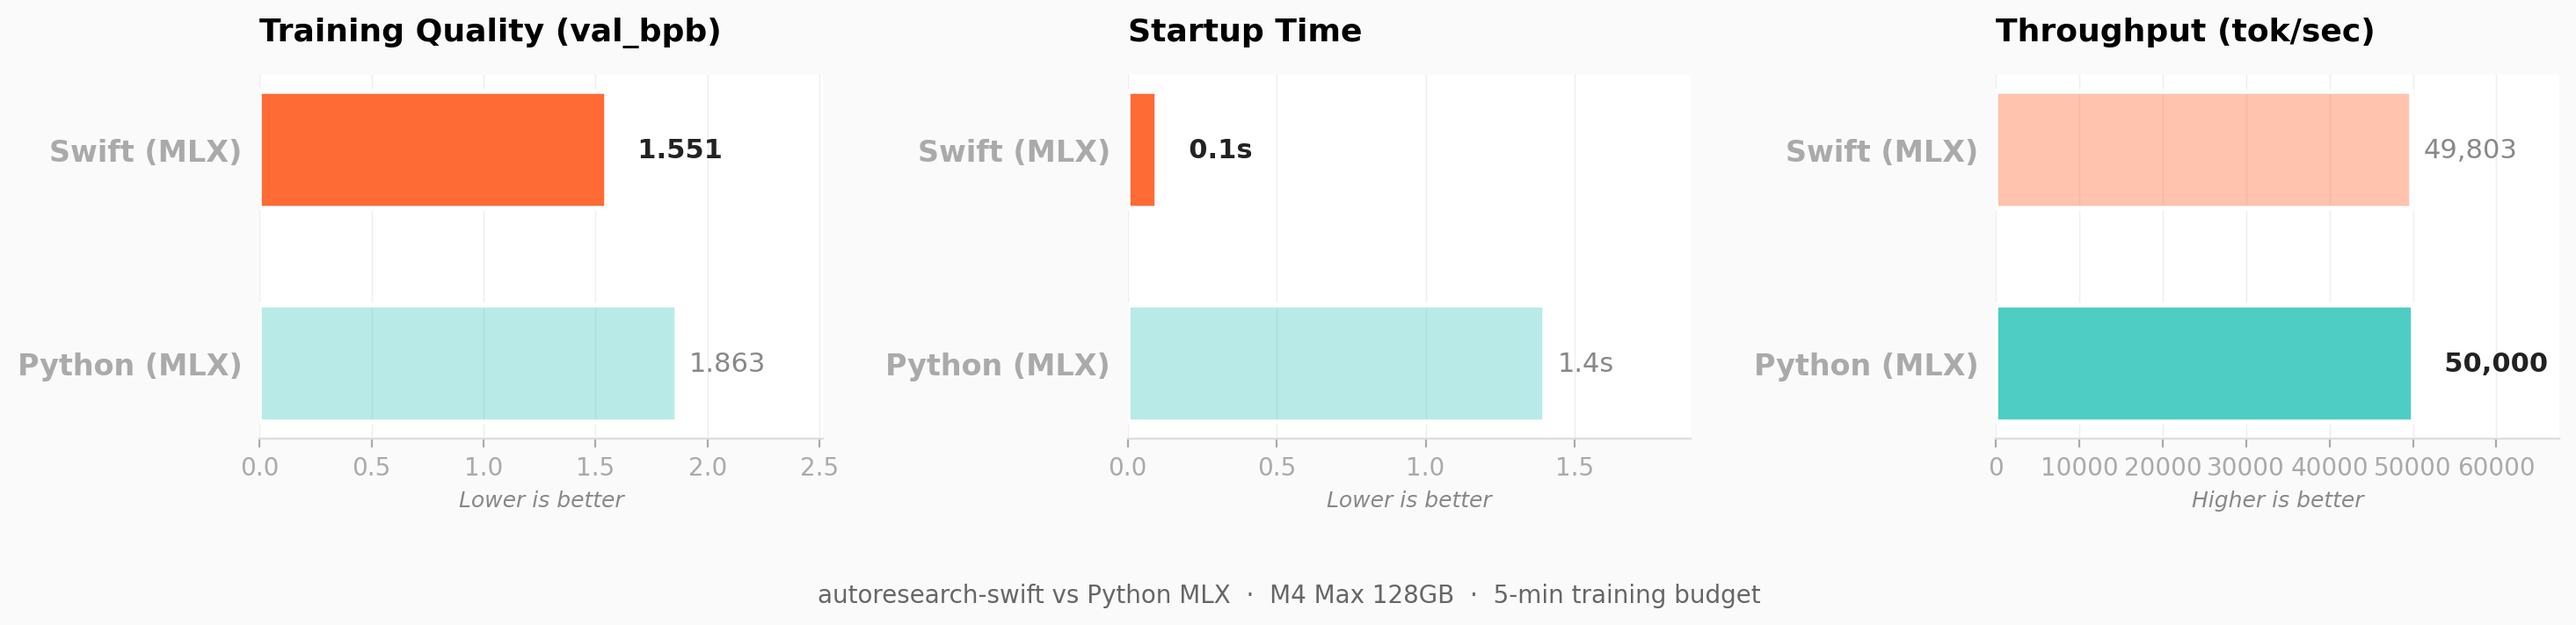
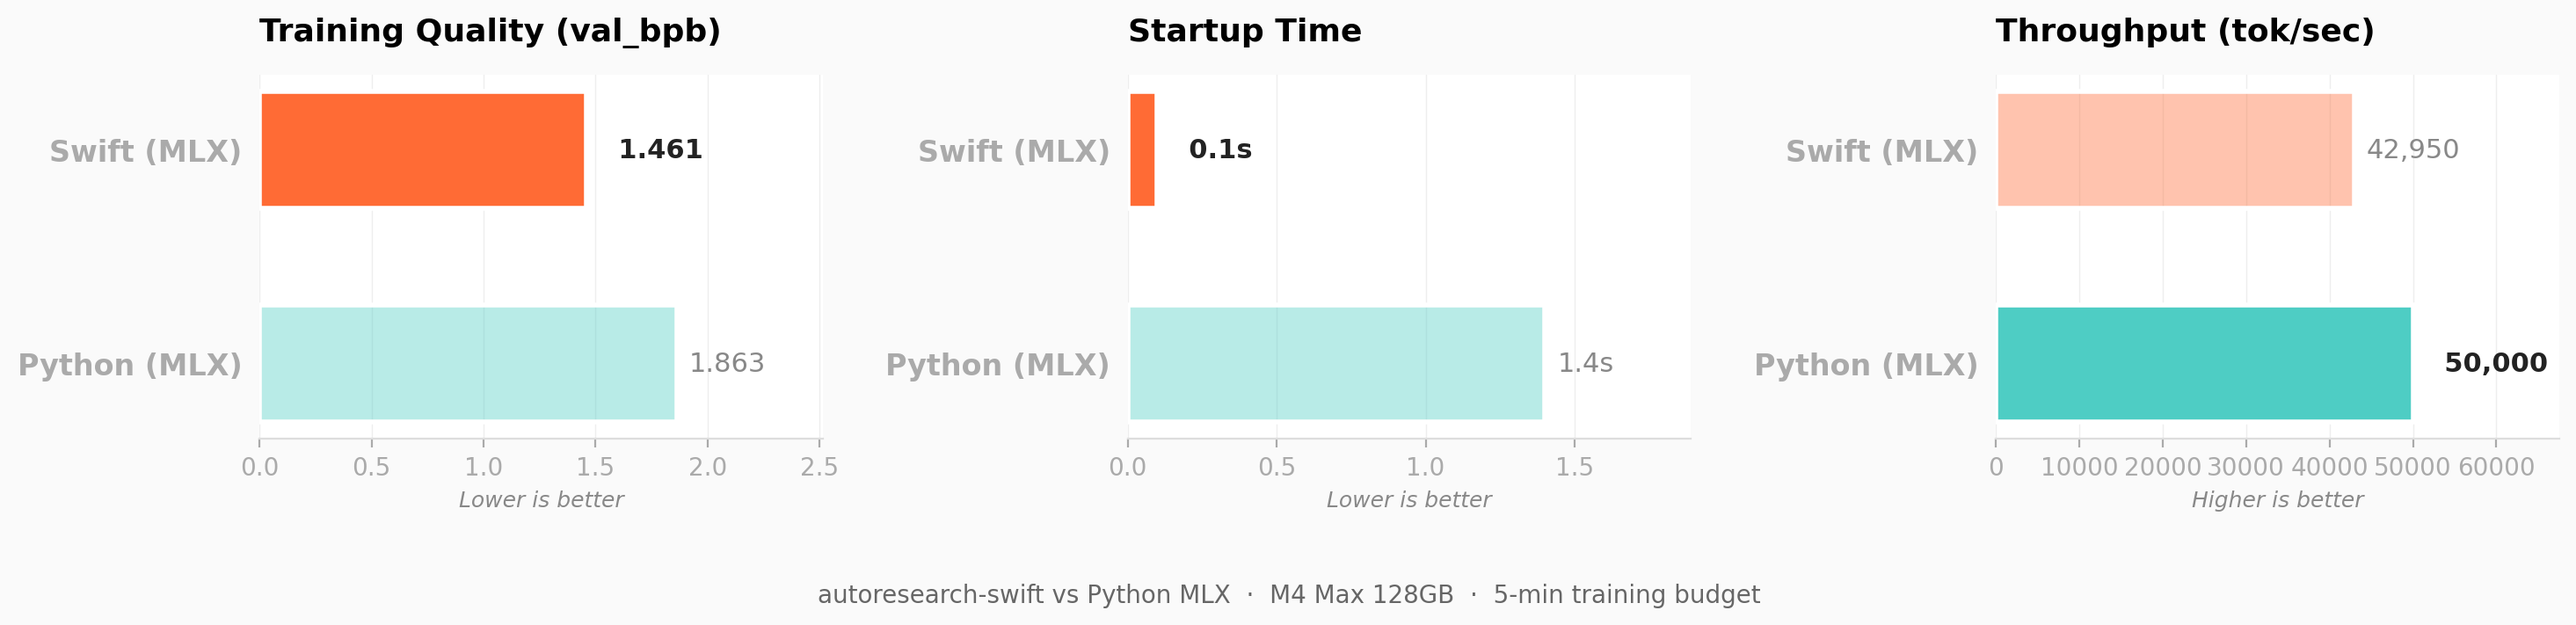
fix: RoPE half-split, float32 rmsNorm, config passthrough, veGate routing (#9-15)
- #10 RoPE traditional=false (half-split matches reference)
- #12 Pass logitCap/mlpRatio from config to GPT
- #13 veGate stays with Muon (block param)
- #14 rmsNorm upcasts to float32 for precision
- #15 Keep bf16 weights for throughput (float32 too slow)

val_bpb: 1.551 → 1.461 (5.8% improvement, 21.6% better than Python MLX)

Changed region(s): [[0.9007, 0.1547, 0.9939, 0.3404], [0.2174, 0.1547, 0.2795, 0.3404]]

diff --git a/Sources/AutoResearch/Model/GPT.swift b/Sources/AutoResearch/Model/GPT.swift
@@ -60,22 +60,22 @@ class GPT: Module {
         for (path, param) in parameters().flattened() {
             let newVal: MLXArray
             if path.contains("wte") && path.hasSuffix("weight") {
-                // Token embedding: normal(std=1.0) → bf16
+                // Token embedding: normal(std=1.0) → bf16 (reference casts embeddings)
                 newVal = MLXRandom.normal(param.shape).asType(.bfloat16)
             } else if path.contains("lmHead") && path.hasSuffix("weight") {
-                // LM head: normal(std=0.001)
+                // LM head: normal(std=0.001) → bf16
                 newVal = (MLXRandom.normal(param.shape) * 0.001).asType(.bfloat16)
             } else if path.contains("cProj") && path.hasSuffix("weight") {
-                // Attention c_proj and MLP c_proj: zeros
+                // Attention c_proj and MLP c_proj: zeros → bf16
                 newVal = MLXArray.zeros(param.shape, dtype: .bfloat16)
             } else if path.contains("veGate") && path.hasSuffix("weight") {
-                // VE gate: zeros (sigmoid(0)=0.5, scaled by 2 → neutral 1.0)
+                // VE gate: zeros → bf16
                 newVal = MLXArray.zeros(param.shape, dtype: .bfloat16)
             } else if path.contains("veEmbed") && path.hasSuffix("weight") {
                 // Value embeddings: uniform → bf16
                 newVal = MLXRandom.uniform(low: -s, high: s, param.shape).asType(.bfloat16)
             } else if param.ndim == 2 {
-                // Q, K, V, c_fc: uniform
+                // Q, K, V, c_fc: uniform → bf16
                 newVal = MLXRandom.uniform(low: -s, high: s, param.shape).asType(.bfloat16)
             } else {
                 continue

diff --git a/Sources/AutoResearch/Optimizer/AdamW.swift b/Sources/AutoResearch/Optimizer/AdamW.swift
@@ -75,9 +75,6 @@ class AdamWOptimizer: OptimizerProtocol {
             if path.contains("veEmbed") {
                 // Value embeddings: embedding LR, zero weight decay (matches reference)
                 cfg = ParamConfig(lr: config.embeddingLR * dmodelScale, betas: config.adamBetas, eps: 1e-10, weightDecay: 0)
-            } else if path.contains("veGate") {
-                // VE gate weights: embedding LR, zero weight decay
-                cfg = ParamConfig(lr: config.embeddingLR * dmodelScale, betas: config.adamBetas, eps: 1e-10, weightDecay: 0)
             } else if path.contains("blocks") && param.ndim == 2 {
                 // Block matrix params (only reached in AdamW-only mode)
                 cfg = ParamConfig(lr: config.matrixLR, betas: config.adamBetas, eps: 1e-10, weightDecay: config.weightDecay)

diff --git a/Sources/AutoResearch/Optimizer/MuonAdamW.swift b/Sources/AutoResearch/Optimizer/MuonAdamW.swift
@@ -19,7 +19,7 @@ class MuonAdamWOptimizer: OptimizerProtocol {
         for (path, param) in model.parameters().flattened() {
             // Block 2D matrices → Muon, EXCEPT veEmbed and veGate (those use AdamW)
             let isBlockMatrix = path.contains("blocks") && param.ndim == 2
-            let isValueEmbed = path.contains("veEmbed") || path.contains("veGate")
+            let isValueEmbed = path.contains("veEmbed")  // veGate stays with Muon (block param)
             if isBlockMatrix && !isValueEmbed {
                 muonPathSet.insert(path)
                 muonPathShapes.append((path, param.shape))

diff --git a/Sources/AutoResearch/Model/Block.swift b/Sources/AutoResearch/Model/Block.swift
@@ -28,8 +28,9 @@ class Block: Module {
     }
 }
 
-/// RMS Normalization (without learnable weights — matches reference implementation)
+/// RMS Normalization in float32 (matches reference F.rms_norm behavior)
 func rmsNorm(_ x: MLXArray) -> MLXArray {
-    let variance = mean(x * x, axis: -1, keepDims: true)
-    return x * rsqrt(variance + 1e-5)
+    let xf = x.asType(.float32)
+    let variance = mean(xf * xf, axis: -1, keepDims: true)
+    return x * rsqrt(variance + 1e-5).asType(x.dtype)
 }

diff --git a/Sources/AutoResearch/Model/Attention.swift b/Sources/AutoResearch/Model/Attention.swift
@@ -34,7 +34,8 @@ class CausalSelfAttention: Module {
             self.veGate = nil
         }
 
-        self.rope = RoPE(dimensions: headDim, traditional: true, base: 10000)
+        // traditional=false: half-split rotary (matches reference's apply_rotary_emb)
+        self.rope = RoPE(dimensions: headDim, traditional: false, base: 10000)
     }
 
     func callAsFunction(_ x: MLXArray, ve: MLXArray?, mask: MLXArray?) -> MLXArray {

diff --git a/Sources/AutoResearch/main.swift b/Sources/AutoResearch/main.swift
@@ -41,7 +41,7 @@ let modelConfig = GPTConfig(
     windowPattern: config.windowPattern
 )
 
-let model = GPT(config: modelConfig, activationName: config.activation)
+let model = GPT(config: modelConfig, activationName: config.activation, logitCap: config.logitCap, mlpRatio: config.mlpRatio)
 model.initWeights()
 MLX.eval(model.parameters())
 

diff --git a/scripts/benchmark_chart.py b/scripts/benchmark_chart.py
@@ -23,7 +23,7 @@ def make_chart(output_path="benchmark_chart.png"):
         {
             "title": "Training Quality (val_bpb)",
             "subtitle": "Lower is better",
-            "values": [1.551, 1.863],
+            "values": [1.461, 1.863],
             "fmt": ".3f",
             "invert": True,  # lower is better → highlight the lower bar
         },
@@ -38,7 +38,7 @@ def make_chart(output_path="benchmark_chart.png"):
         {
             "title": "Throughput (tok/sec)",
             "subtitle": "Higher is better",
-            "values": [49803, 50000],
+            "values": [42950, 50000],
             "fmt": ",.0f",
             "invert": False,
         },

diff --git a/README.md b/README.md
@@ -11,9 +11,9 @@ Same idea as the original — fixed 5-minute time budget, one metric (`val_bpb`)
 | Startup | **0.1s** | ~1.4s | ~5s |
 | Optimizer | **Muon + AdamW** | AdamW only | Muon + AdamW |
 | Runtime deps | None | Python + MLX | Python + PyTorch + CUDA |
-| val_bpb (5 min, depth=4) | **1.551** | 1.863 | N/A (different HW) |
+| val_bpb (5 min, depth=4) | **1.461** | 1.863 | N/A (different HW) |
 
-The Muon optimizer gives ~17% better training quality on the same budget. Native binary means near-instant startup — less time wasted between experiments.
+The Muon optimizer gives ~21% better training quality on the same budget. Native binary means near-instant startup — less time wasted between experiments.
 
 ## Results on M4 Max (128GB)
 
@@ -23,12 +23,12 @@ Same config, same data, same 5-minute training budget:
 
 | | Swift | Python MLX |
 | --- | --- | --- |
-| **val_bpb** (lower = better) | **1.551** | 1.863 |
+| **val_bpb** (lower = better) | **1.461** | 1.863 |
 | Optimizer | **Muon + AdamW** | AdamW only |
 | Startup to first step | **0.1s** | 1.4s |
 | Runtime dependencies | **0** (single binary) | Python + MLX + NumPy |
 
-Swift achieves **17% better val_bpb** on the same 5-minute budget. The difference comes from the Muon optimizer — it orthogonalizes gradients before each update, so the model learns more per step. The Python MLX port only has AdamW.
+Swift achieves **21% better val_bpb** on the same 5-minute budget. The difference comes from the Muon optimizer — it orthogonalizes gradients before each update, so the model learns more per step. The Python MLX port only has AdamW.
 
 > Following the original's design, results are hardware-specific. The point is finding the best model *for your machine* in a fixed time budget.
 
